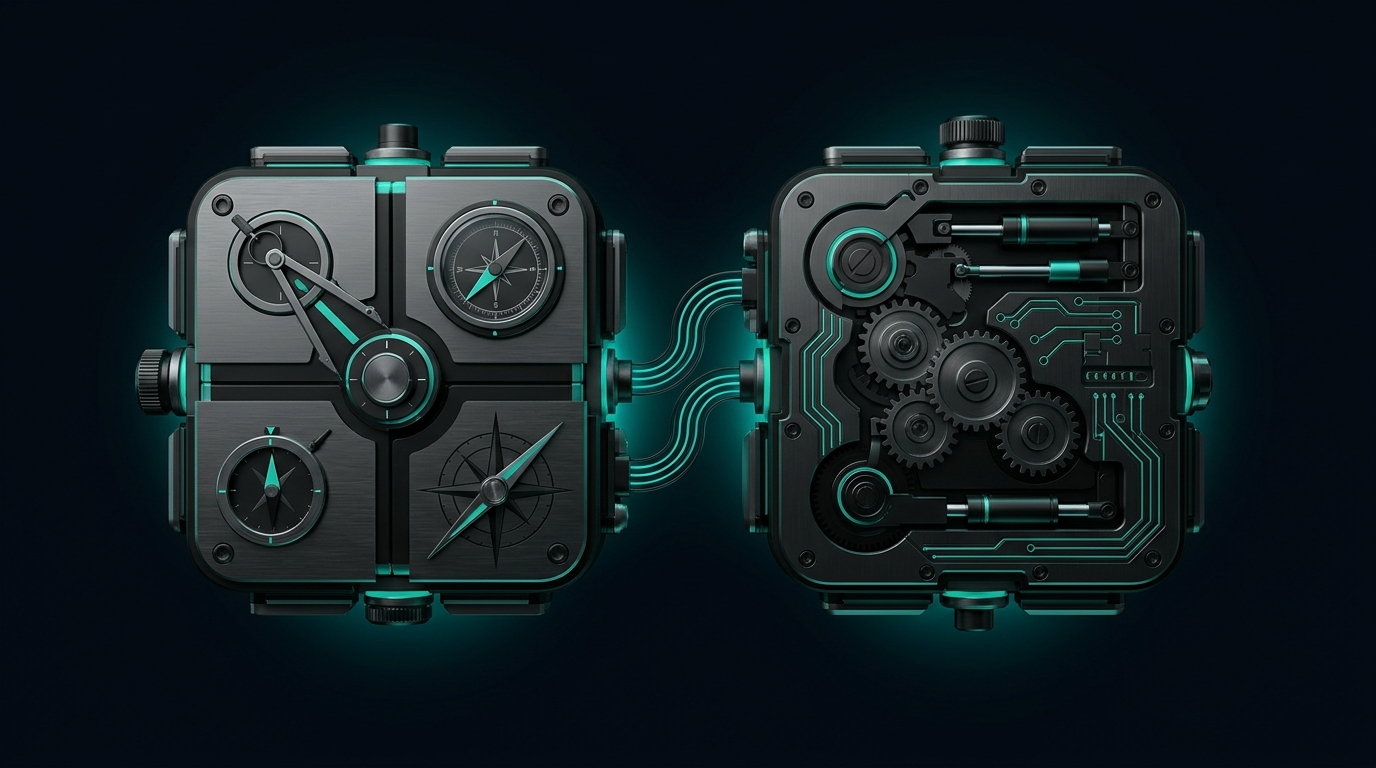
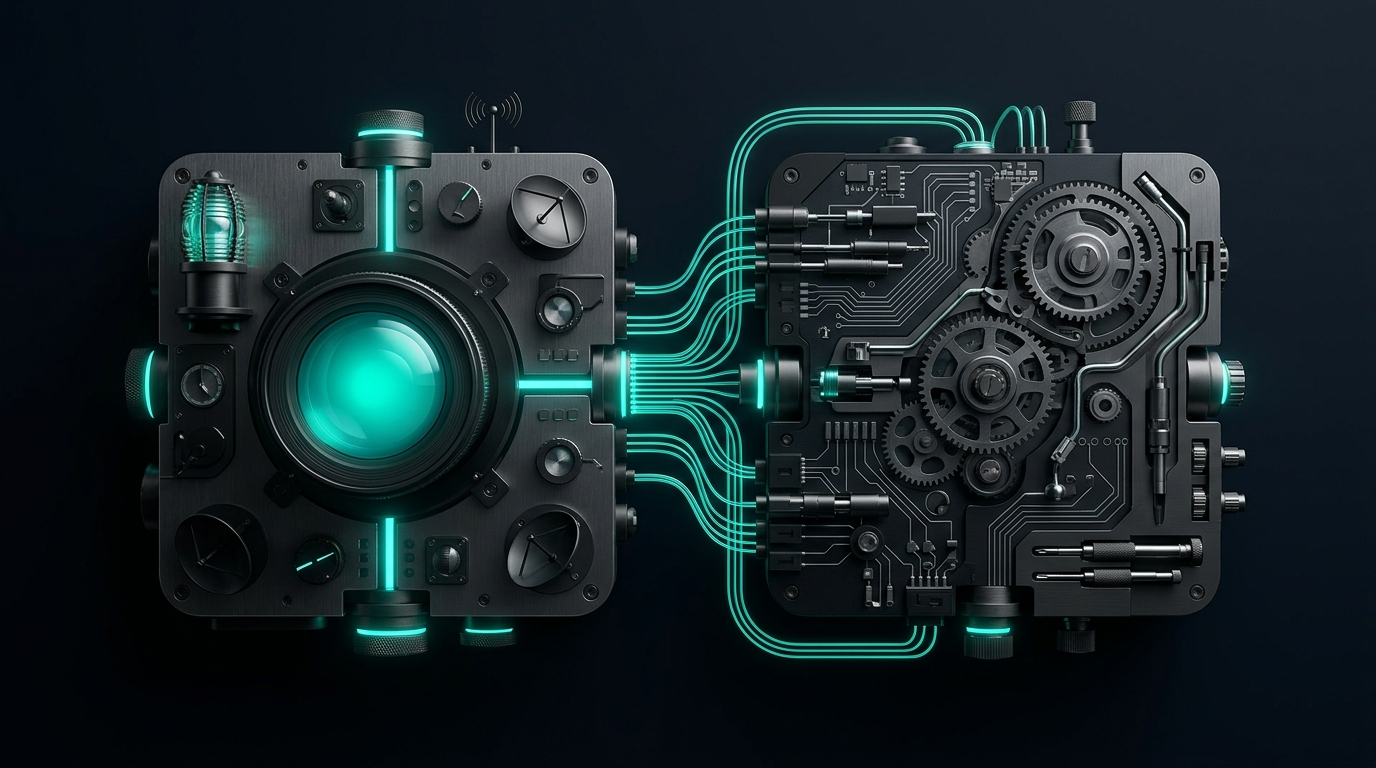
feat: background treatments + regenerated dual engines image
- Replaced compass-based image with telescope/lens version (no Bain
  association)
- Sound Familiar: scattered fragment lines (visual chaos before clarity)
- Assessment CTA: subtle contour map background
- Final CTA: lighthouse beam pointing toward CTAs (bookend to hero)

diff --git a/src/app/page.tsx b/src/app/page.tsx
@@ -166,8 +166,20 @@ export default function Home() {
 
       {/* ═══ SOUND FAMILIAR — Dark, centered, atmospheric ═══ */}
       <GSAPSectionReveal animation="scale-up">
-        <section className="bg-bg-deep py-28 lg:py-36 noise-texture relative">
+        <section className="bg-bg-deep py-28 lg:py-36 noise-texture relative overflow-hidden">
           <div className="absolute inset-0 bg-gradient-to-b from-accent/[0.03] via-transparent to-transparent pointer-events-none" />
+          {/* Scattered fragments — visual chaos before clarity */}
+          <svg className="absolute inset-0 w-full h-full pointer-events-none" aria-hidden>
+            <line x1="10%" y1="15%" x2="25%" y2="20%" stroke="rgba(0,229,195,0.06)" strokeWidth="1" />
+            <line x1="70%" y1="10%" x2="85%" y2="18%" stroke="rgba(0,229,195,0.04)" strokeWidth="1" />
+            <line x1="60%" y1="75%" x2="75%" y2="80%" stroke="rgba(0,229,195,0.05)" strokeWidth="1" />
+            <line x1="5%" y1="60%" x2="18%" y2="55%" stroke="rgba(0,229,195,0.04)" strokeWidth="1" />
+            <line x1="80%" y1="40%" x2="95%" y2="45%" stroke="rgba(0,229,195,0.06)" strokeWidth="1" />
+            <line x1="30%" y1="85%" x2="45%" y2="90%" stroke="rgba(0,229,195,0.03)" strokeWidth="1" />
+            <line x1="50%" y1="5%" x2="55%" y2="12%" stroke="rgba(0,229,195,0.05)" strokeWidth="1" />
+            <line x1="15%" y1="40%" x2="22%" y2="35%" stroke="rgba(0,229,195,0.04)" strokeWidth="1" />
+            <line x1="88%" y1="65%" x2="95%" y2="72%" stroke="rgba(0,229,195,0.03)" strokeWidth="1" />
+          </svg>
           <div className="relative z-10 mx-auto max-w-2xl px-6 lg:px-8">
             <p className="section-label">Sound Familiar?</p>
             <div className="mt-10 space-y-8">
@@ -375,8 +387,15 @@ export default function Home() {
 
       {/* ═══ ASSESSMENT CTA — Light, centered ═══ */}
       <GSAPSectionReveal animation="fade-up">
-        <section className="bg-bg-light py-28 lg:py-36">
-          <div className="mx-auto max-w-3xl px-6 lg:px-8">
+        <section className="bg-bg-light py-28 lg:py-36 relative overflow-hidden">
+          {/* Subtle contour map background — "your terrain awaits" */}
+          <svg className="absolute inset-0 w-full h-full pointer-events-none" aria-hidden>
+            <path d="M -5%,85% Q 20%,75% 40%,80% Q 60%,85% 80%,78% Q 100%,70% 105%,75%" fill="none" stroke="rgba(5,158,135,0.06)" strokeWidth="1" />
+            <path d="M -5%,70% Q 25%,60% 45%,68% Q 65%,75% 85%,65% Q 100%,55% 105%,60%" fill="none" stroke="rgba(5,158,135,0.05)" strokeWidth="1" />
+            <path d="M -5%,55% Q 30%,45% 50%,52% Q 70%,60% 90%,48% Q 105%,38% 110%,42%" fill="none" stroke="rgba(5,158,135,0.04)" strokeWidth="1" />
+            <path d="M -5%,40% Q 35%,30% 55%,38% Q 75%,45% 95%,32% Q 105%,22% 110%,28%" fill="none" stroke="rgba(5,158,135,0.03)" strokeWidth="1" />
+          </svg>
+          <div className="relative z-10 mx-auto max-w-3xl px-6 lg:px-8">
             <div className="text-center">
               <p className="section-label text-accent-dark">Free AI Readiness Report</p>
               <h2 className="mt-4 text-[clamp(2.5rem,5vw,3.5rem)] text-text-on-light">
@@ -448,8 +467,18 @@ export default function Home() {
       </GSAPSectionReveal>
 
       {/* ═══ FINAL CTA — Light, centered ═══ */}
-      <section className="bg-bg-light py-28 lg:py-36">
-        <div className="mx-auto max-w-2xl px-6 text-center lg:px-8">
+      <section className="bg-bg-light py-28 lg:py-36 relative overflow-hidden">
+        {/* Lighthouse beam — pointing toward the viewer / CTAs */}
+        <svg className="absolute inset-0 w-full h-full pointer-events-none" aria-hidden>
+          <defs>
+            <linearGradient id="ctaBeam" x1="1" y1="0" x2="0.3" y2="1">
+              <stop offset="0%" stopColor="#059E87" stopOpacity="0.08" />
+              <stop offset="100%" stopColor="#059E87" stopOpacity="0" />
+            </linearGradient>
+          </defs>
+          <polygon points="100%,0% 40%,65% 60%,65% 100%,5%" fill="url(#ctaBeam)" />
+        </svg>
+        <div className="relative z-10 mx-auto max-w-2xl px-6 text-center lg:px-8">
           <h2 className="text-[clamp(2.5rem,5vw,3.5rem)] text-text-on-light">
             One conversation to find&nbsp;out.
           </h2>
